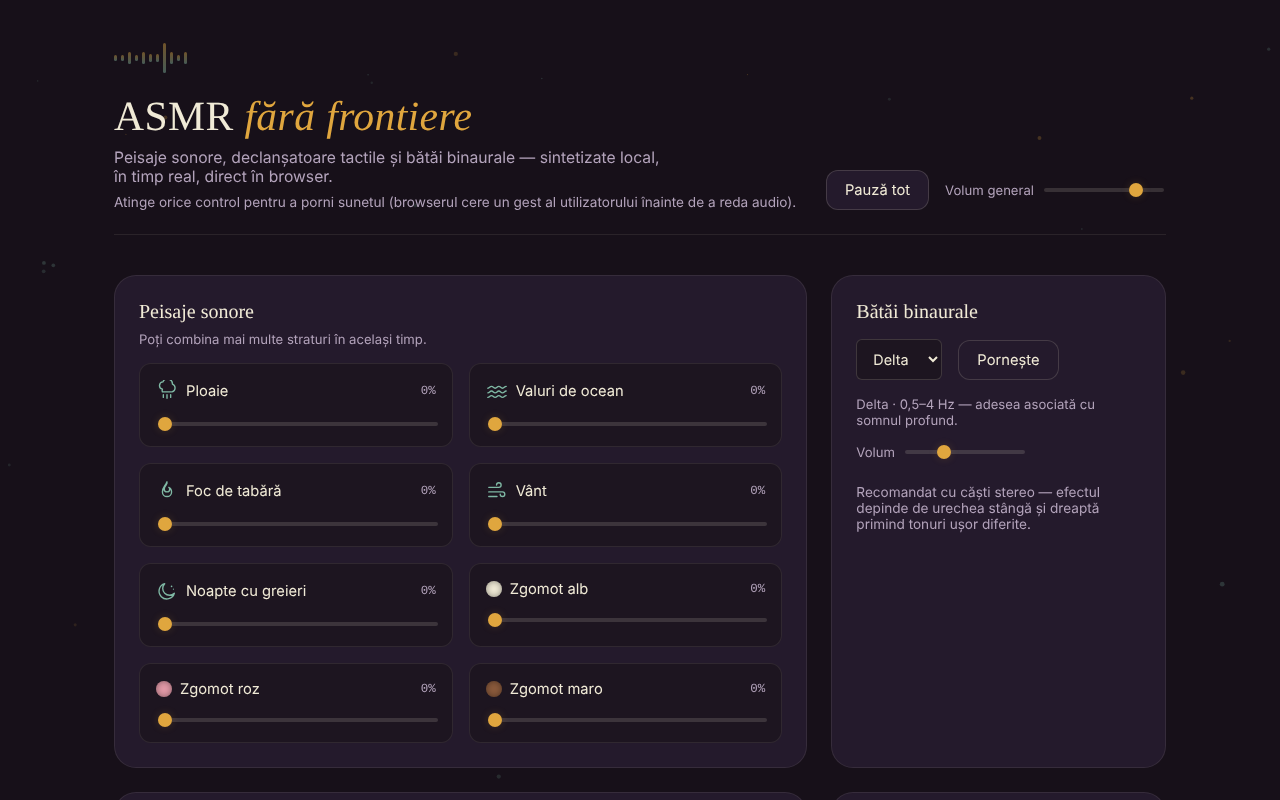
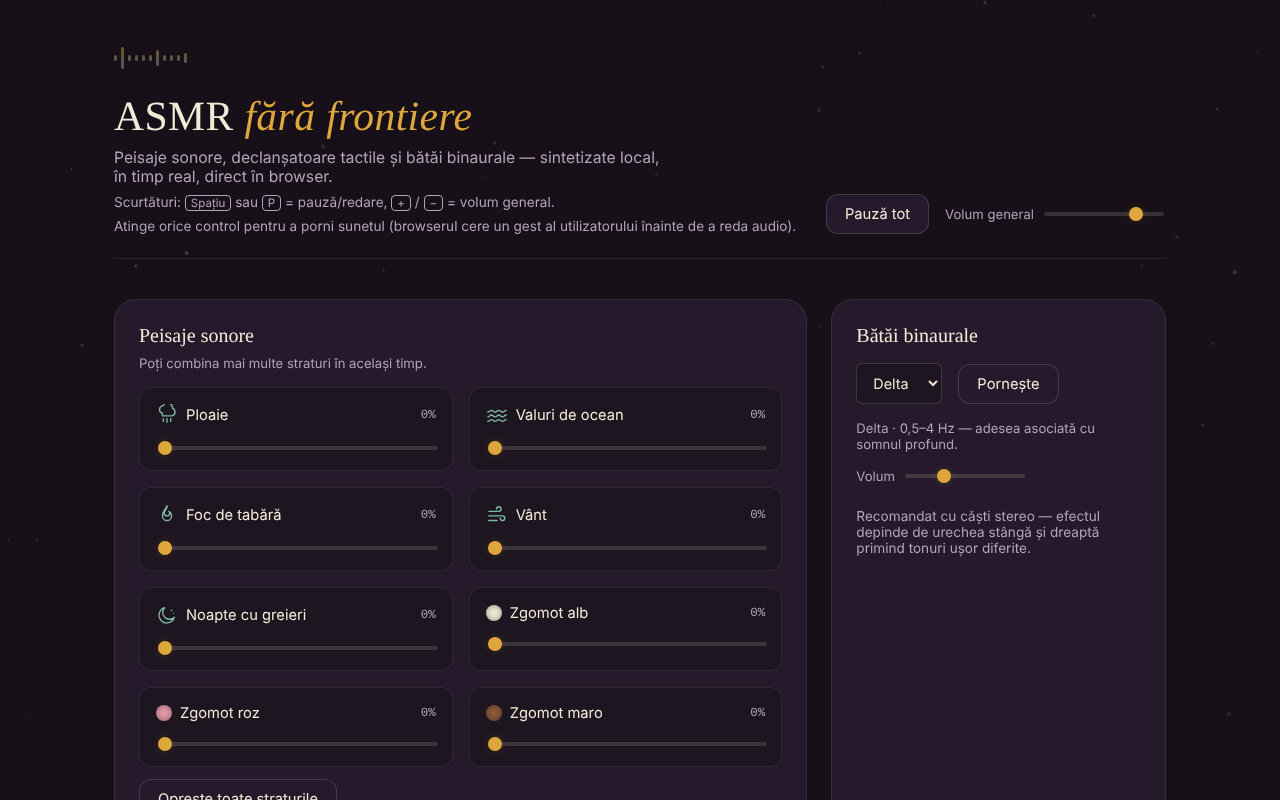
Runda 6 (11 octombrie 2026): reparații și îmbunătățiri
Claude-Session: https://claude.ai/code/session_01D2sCEb3hy3nutYexhUfQFs

diff --git a/index.html b/index.html
@@ -4,7 +4,7 @@
 <meta charset="UTF-8">
 <meta name="viewport" content="width=device-width, initial-scale=1.0">
 <meta name="color-scheme" content="dark">
-<meta http-equiv="Content-Security-Policy" content="default-src 'none'; script-src 'unsafe-inline'; style-src 'unsafe-inline'; img-src data: blob:; font-src data:; media-src blob: data:; connect-src 'none'; object-src 'none'; base-uri 'none'; form-action 'none'">
+<meta http-equiv="Content-Security-Policy" content="default-src 'none'; script-src  'sha256-6blulSXItJ2j+vfP1jZYMLuy1Dqf3Wedjmvoy4MjzFU='; style-src 'unsafe-inline'; img-src data: blob:; font-src data:; media-src blob: data:; connect-src 'none'; object-src 'none'; base-uri 'none'; form-action 'none'">
 <meta name="theme-color" content="#171019">
 <meta name="description" content="ASMR fără frontiere — peisaje sonore, declanșatoare tactile și bătăi binaurale, sintetizate local în browser.">
 <title>ASMR fără frontiere</title>
@@ -398,6 +398,10 @@
     padding: var(--space-2) 0;
   }
 
+  .layer-actions { margin-top: 12px; }
+  .timer-custom { display: flex; flex-wrap: wrap; align-items: center; gap: 8px; margin-top: 10px; font-size: .85rem; }
+  .timer-custom input { width: 6.5em; min-height: 40px; padding: 4px 8px; border-radius: 8px; border: 1px solid var(--accent-cool-dim); background: transparent; color: inherit; font: inherit; }
+  kbd { border: 1px solid currentColor; border-radius: 4px; padding: 0 5px; font: inherit; font-size: .85em; }
   .preset-save {
     display: flex;
     gap: var(--space-2);
@@ -487,6 +491,7 @@
       <div>
         <h1>ASMR <span class="accent">fără frontiere</span></h1>
         <p class="subtitle">Peisaje sonore, declanșatoare tactile și bătăi binaurale — sintetizate local, în timp real, direct în browser.</p>
+        <p class="hint">Scurtături: <kbd>Spațiu</kbd> sau <kbd>P</kbd> = pauză/redare, <kbd>+</kbd> / <kbd>−</kbd> = volum general. </p>
         <p class="hint">Atinge orice control pentru a porni sunetul (browserul cere un gest al utilizatorului înainte de a reda audio).</p>
       </div>
       <div class="header-controls">
@@ -504,6 +509,7 @@
       <h2>Peisaje sonore</h2>
       <p class="panel-note">Poți combina mai multe straturi în același timp.</p>
       <div class="layer-grid" id="layerGrid"></div>
+      <div class="layer-actions"><button class="btn" id="stopAll" type="button">Oprește toate straturile</button></div>
     </section>
 
     <section class="panel triggers">
@@ -554,7 +560,12 @@
           <button class="chip" data-min="90" type="button">90 min</button>
           <button class="chip" data-min="0" type="button">Oprit</button>
         </div>
-        <div class="timer-display" id="timerDisplay">--:--</div>
+        <div class="timer-custom">
+          <label for="timerCustom">Altă durată (minute, 1–480)</label>
+          <input type="number" id="timerCustom" min="1" max="480" step="1" inputmode="numeric" placeholder="ex. 20">
+          <button class="btn" id="timerCustomGo" type="button">Pornește</button>
+        </div>
+        <div class="timer-display" id="timerDisplay" role="timer" aria-label="Timp rămas până la oprire">--:--</div>
       </div>
     </section>
 
@@ -562,6 +573,7 @@
       <h2>Presetări</h2>
       <div class="presets-panel-inner">
         <div class="preset-chips" id="builtinPresets"></div>
+        <div class="preset-chips" id="lastMixWrap"></div>
         <div class="preset-save">
           <input type="text" id="presetName" placeholder="Nume presetare" aria-label="Nume presetare nouă" maxlength="24">
           <button class="btn" id="savePreset" type="button">Salvează</button>
@@ -1126,6 +1138,7 @@
       .some(function (s) { return parseInt(s.value, 10) > 0; });
     const anyBinaural = binauralToggleEl.dataset.active === 'true';
     waveformEl.classList.toggle('active', (anyLayer || anyBinaural) && !masterPaused);
+    if (anyLayer || anyBinaural) saveLastMix();
   }
 
   // ---- Straturi UI ----
@@ -1290,6 +1303,28 @@
     }
   });
 
+  document.getElementById('stopAll').addEventListener('click', function () {
+    LAYERS.forEach(function (l) { setLayerSliderAndVolume(l.id, 0); });
+    if (binauralToggleEl.dataset.active === 'true') {
+      stopBinaural(0.4);
+      binauralToggleEl.textContent = 'Pornește';
+      binauralToggleEl.dataset.active = 'false';
+    }
+    updateWaveformState();
+  });
+  document.addEventListener('keydown', function (e) {
+    if (e.ctrlKey || e.metaKey || e.altKey) return;
+    const t = e.target && e.target.tagName;
+    if (t === 'INPUT' || t === 'TEXTAREA' || t === 'SELECT' || t === 'BUTTON') return;
+    if (e.key === ' ' || e.key === 'p' || e.key === 'P') { e.preventDefault(); masterPlayPauseEl.click(); }
+    else if (e.key === '+' || e.key === '=' || e.key === '-') {
+      e.preventDefault();
+      const v = clamp(parseInt(masterVolumeEl.value, 10) + (e.key === '-' ? -5 : 5), 0, 100);
+      masterVolumeEl.value = v;
+      masterVolumeEl.dispatchEvent(new Event('input'));
+    }
+  });
+
   // ---- Master ----
   masterPlayPauseEl.addEventListener('click', function () {
     const ctx = ensureAudio();
@@ -1315,11 +1350,28 @@
   document.querySelectorAll('.timer-chips .chip').forEach(function (btn) {
     btn.addEventListener('click', function () {
       ensureAudio();
-      document.querySelectorAll('.timer-chips .chip').forEach(function (b) { b.classList.remove('active'); });
-      btn.classList.add('active');
+      document.querySelectorAll('.timer-chips .chip').forEach(function (b) { b.classList.remove('active'); b.setAttribute('aria-pressed', 'false'); });
+      btn.classList.add('active'); btn.setAttribute('aria-pressed', 'true');
       startSleepTimer(parseInt(btn.dataset.min, 10));
     });
   });
+
+  const timerCustomEl = document.getElementById('timerCustom');
+  function startCustomTimer() {
+    const v = parseInt(timerCustomEl.value, 10);
+    if (!isFinite(v) || v < 1 || v > 480) {
+      timerCustomEl.setAttribute('aria-invalid', 'true');
+      timerDisplayEl.textContent = 'Introdu 1–480';
+      timerCustomEl.focus();
+      return;
+    }
+    timerCustomEl.removeAttribute('aria-invalid');
+    ensureAudio();
+    document.querySelectorAll('.timer-chips .chip').forEach(function (b) { b.classList.remove('active'); b.setAttribute('aria-pressed', 'false'); });
+    startSleepTimer(v);
+  }
+  document.getElementById('timerCustomGo').addEventListener('click', startCustomTimer);
+  timerCustomEl.addEventListener('keydown', function (e) { if (e.key === 'Enter') startCustomTimer(); });
 
   // ---- Presetări ----
   function applyPreset(preset) {
@@ -1360,6 +1412,35 @@
       });
     }
     catch (e) { return []; }
+  }
+  function saveLastMix() {
+    try {
+      const layers = {};
+      LAYERS.forEach(function (l) {
+        const sl = document.querySelector('.layer-card[data-id="' + l.id + '"] input[type=range]');
+        layers[l.id] = sl ? parseInt(sl.value, 10) : 0;
+      });
+      const active = binauralToggleEl.dataset.active === 'true';
+      localStorage.setItem('asmr_ff_last', JSON.stringify({ layers: layers, binaural: active ? binauralBandEl.value : null }));
+    } catch (e) { /* stocare indisponibilă */ }
+    renderLastMix();
+  }
+  function renderLastMix() {
+    const wrap = document.getElementById('lastMixWrap');
+    if (!wrap) return;
+    let last = null;
+    try { last = JSON.parse(localStorage.getItem('asmr_ff_last') || 'null'); } catch (e) { last = null; }
+    if (!last || typeof last !== 'object' || !last.layers || (last.binaural && !Object.prototype.hasOwnProperty.call(BANDS, last.binaural))) { wrap.textContent = ''; return; }
+    const layers = {};
+    LAYERS.forEach(function (l) { const v = Number(last.layers[l.id]); layers[l.id] = isFinite(v) ? clamp(Math.round(v), 0, 100) : 0; });
+    const preset = { name: 'Ultima combinație', layers: layers, binaural: last.binaural || null };
+    let b = wrap.querySelector('button');
+    if (!b) {
+      b = document.createElement('button'); b.type = 'button'; b.className = 'chip'; b.id = 'lastMixBtn';
+      b.textContent = 'Ultima combinație';
+      wrap.appendChild(b);
+    }
+    b.onclick = function () { ensureAudio(); applyPreset(preset); };
   }
   function persistUserPresets(list) {
     try { localStorage.setItem('asmr_ff_presets', JSON.stringify(list)); presetMemoryFallback = null; }
@@ -1861,6 +1942,7 @@
     buildLayerUI();
     buildTriggerUI();
     buildPresetUI();
+    renderLastMix();
     buildFxTabs();
     initWaveformBars();
     binauralDescEl.textContent = BANDS[binauralBandEl.value].desc;

diff --git a/README.md b/README.md
@@ -20,7 +20,10 @@ Un mixer de sunete pentru relaxare, scris în JavaScript simplu. Sunetul nu este
 - **Bătăi binaurale**: benzile Delta, Theta, Alpha și Beta, cu volum separat și buton **Pornește**. Aplicația recomandă căști stereo.
 - **Cronometru de adormire**: 15, 30, 45, 60 sau 90 min, sau „Oprit”; afișaj al timpului rămas.
 - **Presetări**: șase presetări încorporate (Ploaie de noapte, Furtună pe ocean, Foc de tabără, Concentrare, Adormire, Liniște) și presetări proprii, salvate cu nume (maximum 24 de caractere).
-- Buton **Pauză tot / Redă tot** și **Volum general**.
+- Buton **Pauză tot / Redă tot** și **Volum general**; buton **Oprește toate straturile** (aduce straturile la 0 și oprește bătăile binaurale).
+- Cronometru cu **durată personalizată** (1–480 min, cu mesaj de eroare la valoare invalidă); cronometrul are rol `timer` pentru cititoarele de ecran.
+- Presetarea **Ultima combinație**: ultimul mix cu cel puțin un strat sau bătăi active se păstrează automat și se poate relua dintr-un clic.
+- Scurtături globale: **Spațiu** sau **P** = pauză/redare, **+** / **−** = volum general (±5), când focusul nu e pe un câmp sau buton.
 - Tastele Enter și Spațiu activează declanșatoarele când acestea au focus.
 
 ## Manual de utilizare
@@ -40,7 +43,7 @@ Conținut informativ și de relaxare; nu înlocuiește sfatul medical. Descrieri
 
 ## Confidențialitate și rețea
 
-- **Stocare locală (localStorage):** o singură cheie, `asmr_ff_presets`, cu presetările tale salvate (nume, niveluri ale straturilor, bandă binaurală). Dacă browserul blochează stocarea, presetările rămân doar în memorie până la reîncărcare.
+- **Stocare locală (localStorage):** două chei: `asmr_ff_presets` (presetările tale salvate: nume, niveluri ale straturilor, bandă binaurală) și `asmr_ff_last` (ultima combinație: niveluri și bandă, fără nume). Dacă browserul blochează stocarea, presetările rămân doar în memorie până la reîncărcare.
 - **Rețea:** în cod nu există cereri de rețea (`fetch`), scripturi, fonturi sau imagini încărcate din exterior și nici linkuri externe. Nu există analytics.
 
 ## Rulare locală / offline
@@ -50,6 +53,7 @@ Descarcă `index.html` și deschide-l în browser; nu are nevoie de internet. Es
 ## Istoric / Changelog
 
 ### 11 octombrie 2026
+- Nou: durată personalizată pentru cronometru, „Oprește toate straturile”, presetarea „Ultima combinație”, scurtături de tastatură; CSP cu hash pentru script (fără `'unsafe-inline'` la scripturi). Captura de ecran actualizată.
 - Adăugat CSP strict (fără rețea, fără resurse externe); verificare: axe 0 violări, fără erori în consolă, fără depășire orizontală la 360 px.
 - Calitatea sunetului sintetizat nu poate fi evaluată automat; neschimbată în această rundă.
 
